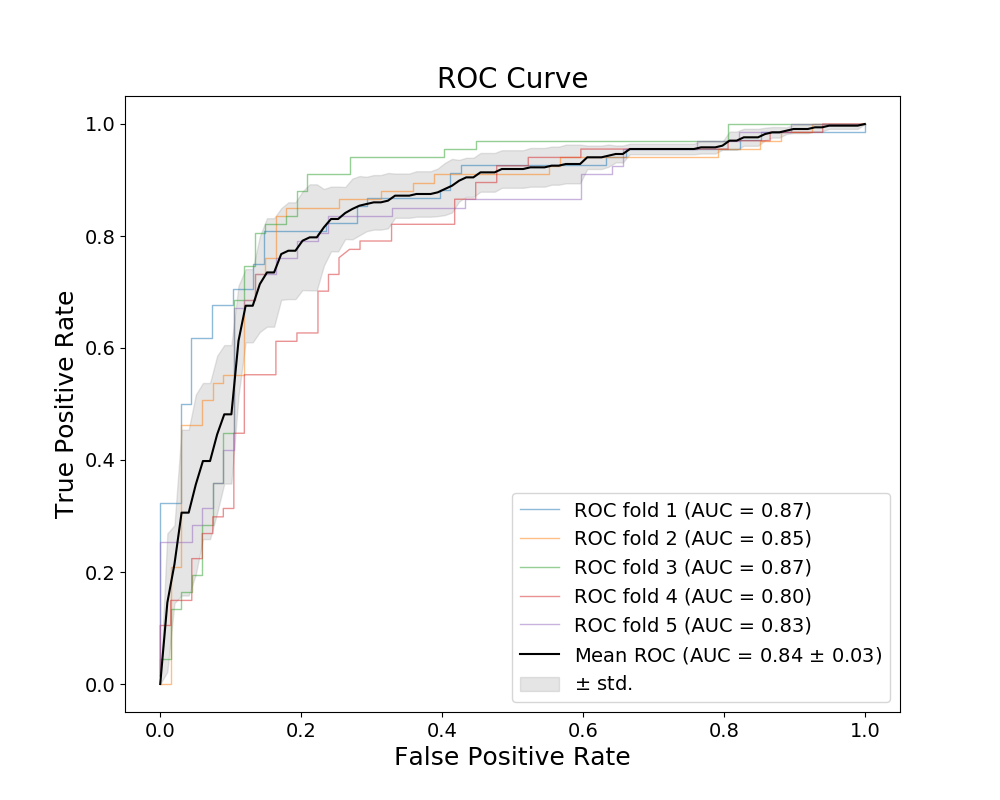
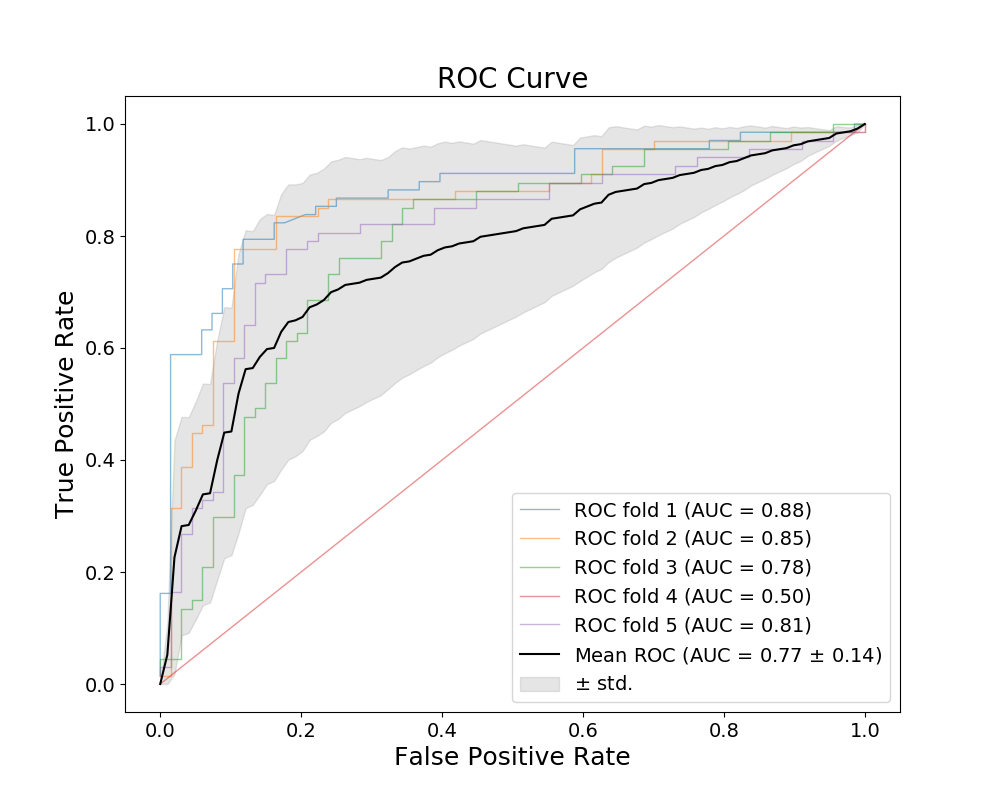
Trimmed Dataset and Violin Plot

diff --git a/src/violinplot.py b/src/violinplot.py
@@ -1,0 +1,56 @@
+# coding: utf-8
+
+""" MIT License """
+'''
+    Axel Masquelin & Sami Connolly  
+    Andrea Elhajj  & Thayer Alshaabi
+    ---
+    Copyright (c) 2018 
+'''
+
+# libraries and dependencies
+# ---------------------------------------------------------------------------- #
+import matplotlib.pyplot as plt
+import matplotlib.axes as ax
+import seaborn as sns
+import pandas as pd
+import numpy as np
+import glob
+import os
+import re
+# ---------------------------------------------------------------------------- #\
+
+cwd = os.getcwd()
+base = []
+for root, dirs, files in os.walk(cwd + "/results/images/OriginalDataset", topdown = True):
+    df = pd.DataFrame()
+    plt.figure(1)
+    for name in files:
+        if (name.endswith(".csv")):
+            if (len(name.split('_')) == 2):
+                header = name.split('_')[0]
+                mean_AUC = []
+                filename = os.path.join(root,name)
+                base.append(os.path.splitext(os.path.basename(filename))[0])
+                aucs = pd.read_csv(filename)
+                mean_AUC.append(np.mean(aucs['AUC1']))
+                mean_AUC.append(np.mean(aucs['AUC2']))
+                mean_AUC.append(np.mean(aucs['AUC3']))
+                mean_AUC.append(np.mean(aucs['AUC4']))
+                mean_AUC.append(np.mean(aucs['AUC5']))
+                df[header] = mean_AUC
+print(df)
+
+
+labels = {'gp-rf', 'gp-svm', 'gp', 'rf', 'svm'}
+
+#ax.Axes.violinplot(mean_AUC, showmeans = True, showmedians = True)
+ax = sns.violinplot(x = labels, y = 'AUC', hue = "smoker", palette = "mutted", data = df)
+
+# plt.xlabel('Generations')
+# plt.ylabel('Average Fitness')
+# base = np.asarray(base)        
+# plt.title("Average Maximum Fitness over Generations")
+# plt.legend(base)
+# #plt.legend(('Pop 100', 'Pop 250', 'Pop 500', 'Pop 1000'))
+# plt.show()

diff --git a/src/main.py b/src/main.py
@@ -136,7 +136,7 @@ if __name__ == '__main__':
                 fprs.append(fp)
 
             auc_scores[r, :] = utils.calc_auc(fprs, tprs, figure, plot_roc=True)
-            plt.savefig(r"./results/images/OriginalDataset/" + method[n] + "-AUC" + "_reps" + str(r))
+            plt.savefig(r"./results/images/TrimmedDataset/" + method[n] + "-AUC" + "_reps" + str(r))
             figure += 1
             print('-'*75)
         
